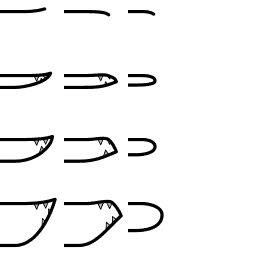
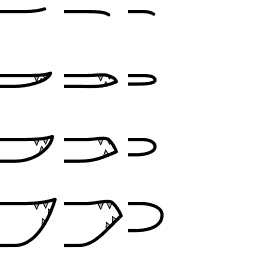
Move ajar up a bit

Changed region(s): [[0.25, 0.3125, 0.4375, 0.375], [0.0, 0.3125, 0.1875, 0.375], [0.5, 0.2812, 0.625, 0.3438]]

diff --git a/Assets/Scripts/Entities/Animation/Mouth/ReflectMouthMaterial.cs b/Assets/Scripts/Entities/Animation/Mouth/ReflectMouthMaterial.cs
@@ -16,7 +16,7 @@ public class ReflectMouthMaterial : ReactiveBehaviour
 	static Dictionary<MouthOpenAmount, float> _defaultUvMap = new()
 	{
 		{ MouthOpenAmount.Closed, 0 },
-		{ MouthOpenAmount.Ajar, 0.27f },
+		{ MouthOpenAmount.Ajar, 0.255f },
 		{ MouthOpenAmount.Open, 0.5f },
 		{ MouthOpenAmount.WideOpen, 1f }
 	};
@@ -25,7 +25,7 @@ public class ReflectMouthMaterial : ReactiveBehaviour
 	static Dictionary<MouthOpenAmount, float> _museRotationUvMap = new()
 	{
 		{ MouthOpenAmount.Closed, 0 },
-		{ MouthOpenAmount.Ajar, 0.19f },
+		{ MouthOpenAmount.Ajar, 0.18f },
 		{ MouthOpenAmount.Open, 0.35f },
 		{ MouthOpenAmount.WideOpen, 0.64f }
 	};

diff --git a/Assets/Scripts/Entities/Animation/Mouth/ReflectMandibleOpen.cs b/Assets/Scripts/Entities/Animation/Mouth/ReflectMandibleOpen.cs
@@ -12,7 +12,7 @@ public class ReflectMandibleOpen : ReactiveBehaviour
 	static Dictionary<MouthOpenAmount, float> _defaultRotationMap = new()
 	{
 		{ MouthOpenAmount.Closed, 0 },
-		{ MouthOpenAmount.Ajar, 8f },
+		{ MouthOpenAmount.Ajar, 7.7f },
 		{ MouthOpenAmount.Open, 15 },
 		{ MouthOpenAmount.WideOpen, 30 }
 	};
@@ -21,7 +21,7 @@ public class ReflectMandibleOpen : ReactiveBehaviour
 	static Dictionary<MouthOpenAmount, float> _museRotationMap = new()
 	{
 		{ MouthOpenAmount.Closed, 0 },
-		{ MouthOpenAmount.Ajar, 5.6f },
+		{ MouthOpenAmount.Ajar, 5.4f },
 		{ MouthOpenAmount.Open, 10.6f },
 		{ MouthOpenAmount.WideOpen, 19.3f }
 	};
